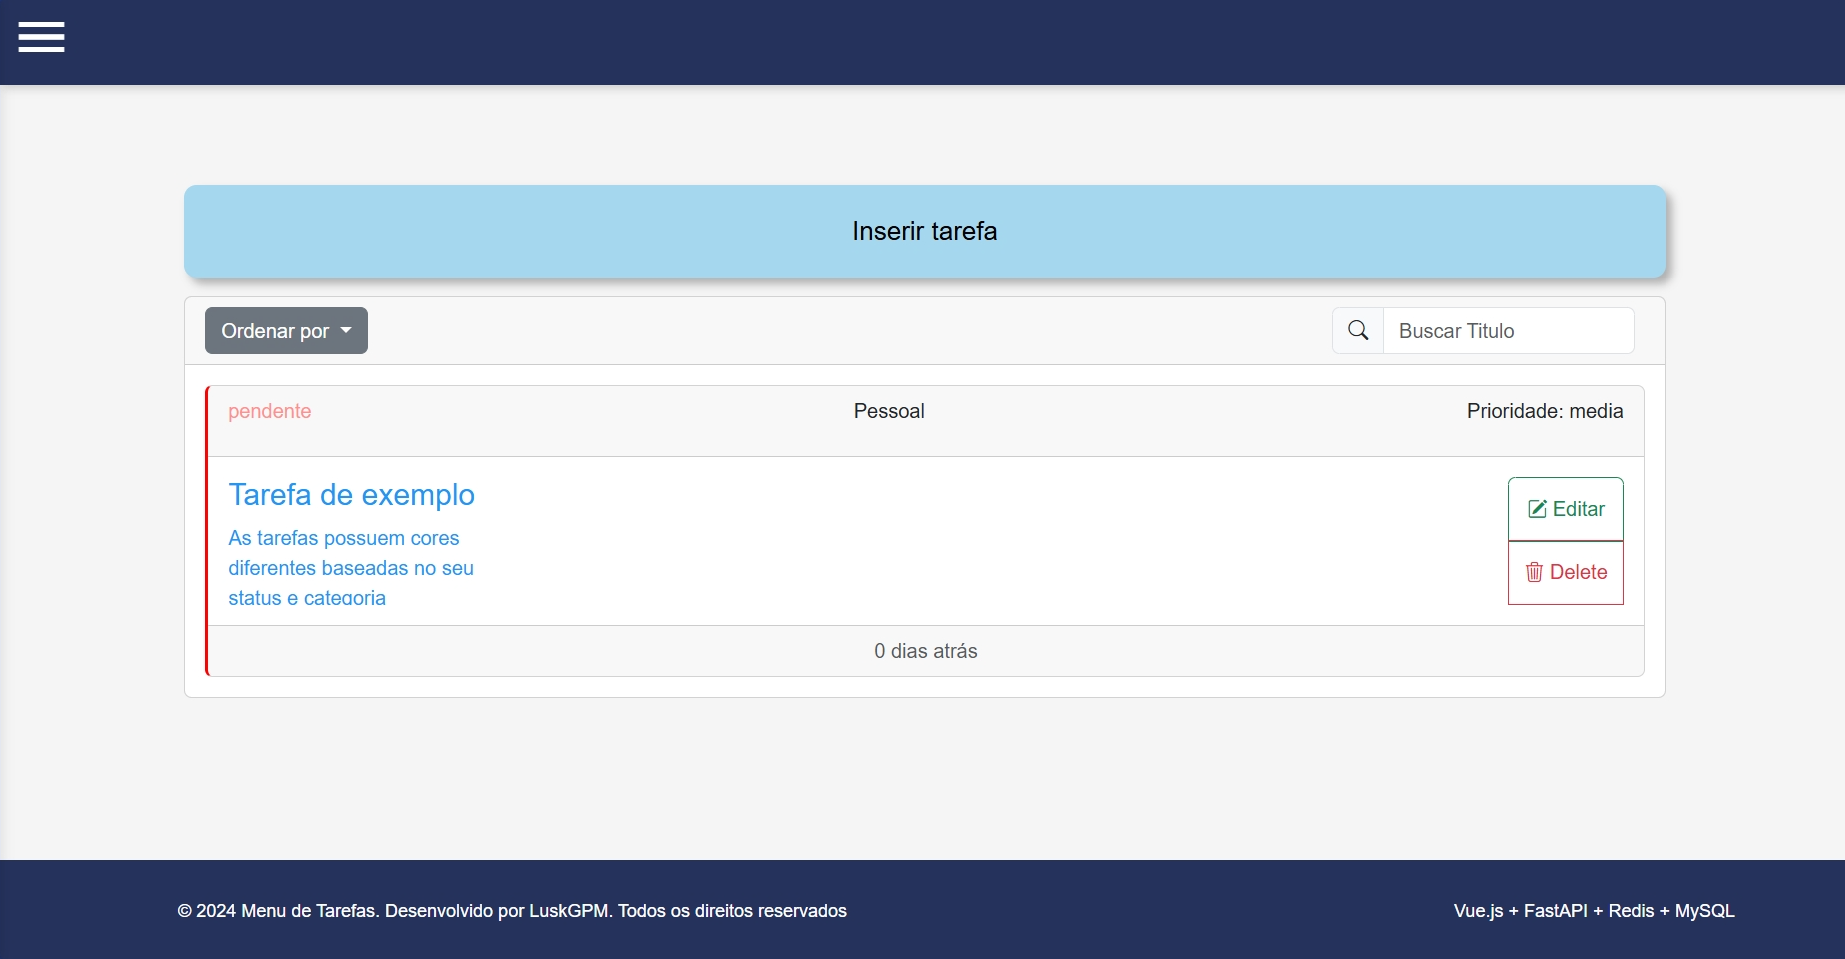
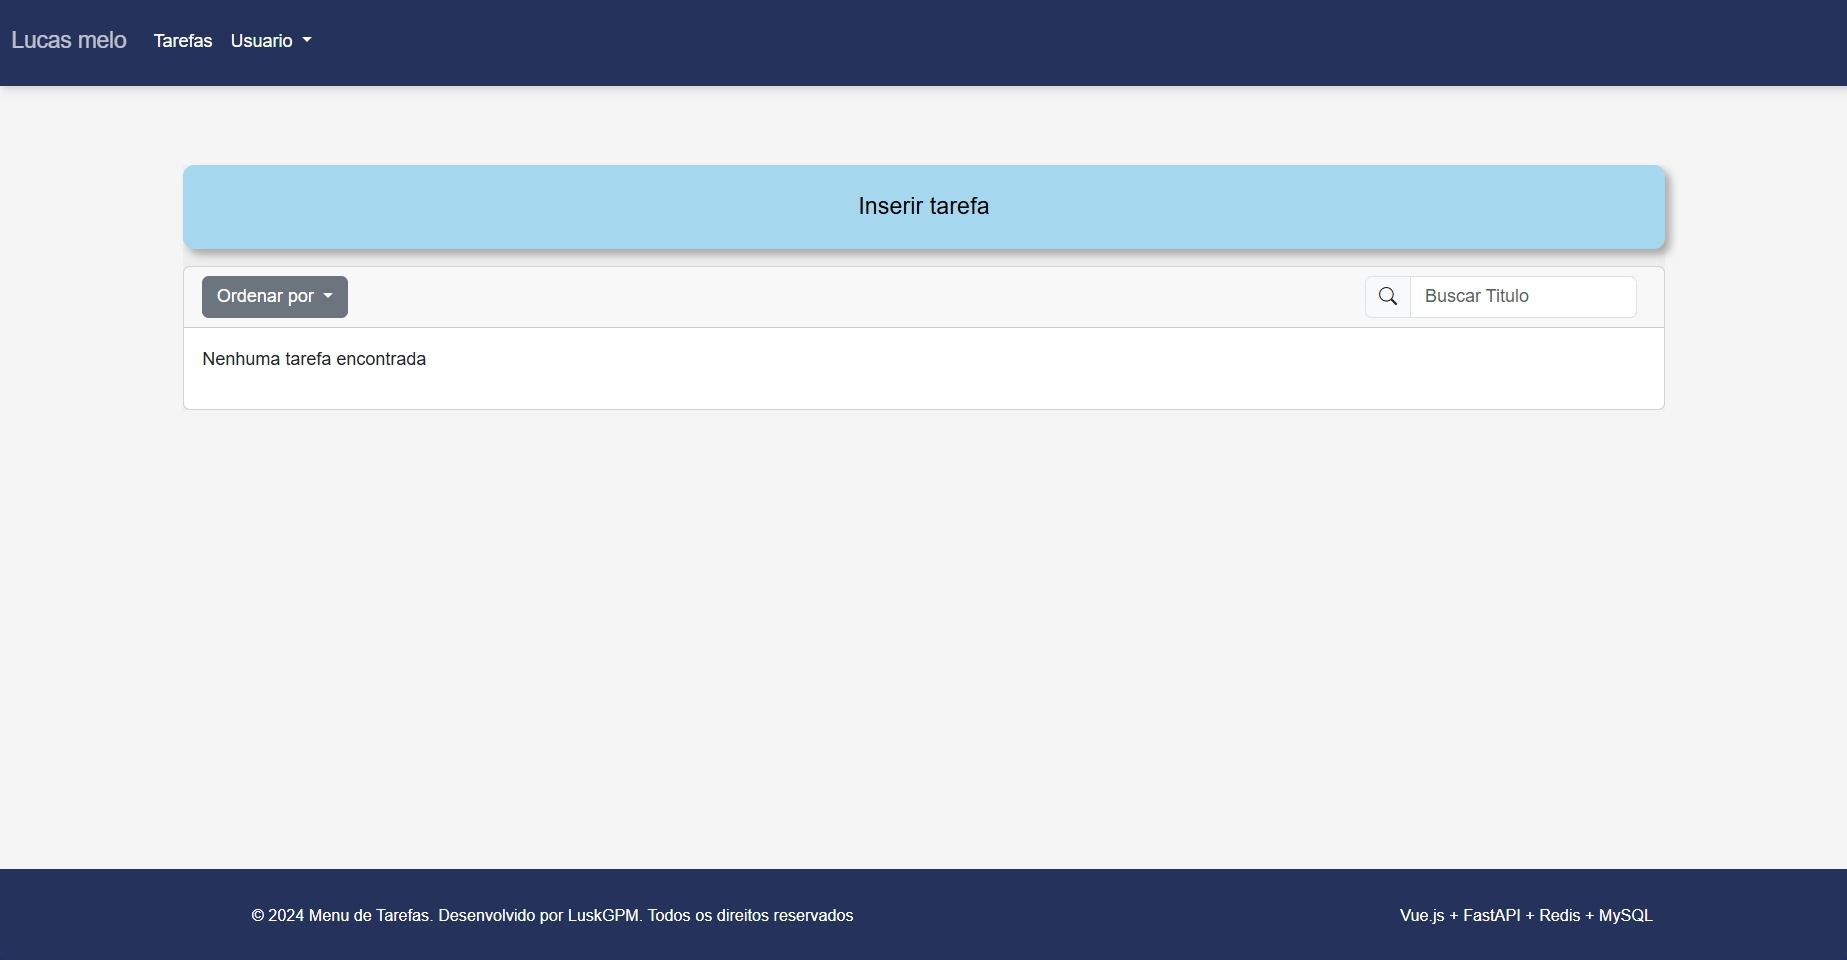
Corrigindo bug (#7)
* Corrigindo bug onde o conteúdo da pagina sobrescrevia o offcanvas

* correção de bugs (os labels vão ficar desaparecendo)

* removendo o sidebar por problemas de compatibilidade

* removendo comentarios

* dashboard

diff --git a/app/view/src/components/CompHeader.vue b/app/view/src/components/CompHeader.vue
@@ -1,28 +1,39 @@
 <template>
     <header>
-        <nav class="navbar">
-            <button class="btn" data-bs-toggle="offcanvas" data-bs-target="#sidebar">
-                <i class="bi bi-list span"></i>
-            </button>
 
-            <div class="offcanvas offcanvas-start" tabindex="-1" id="sidebar">
-                <div class="offcanvas-header">
-                    <h5 class="offcanvas-title">{{ nomeUser }}</h5>
-                    <button type="button" class="btn-close" data-bs-dismiss="offcanvas"></button>
-                </div>
-                <div class="offcanvas-body">
-                    <div class="menu-items mb-4" @click="redirect_user">
-                        <i class="bi bi-person span"></i>
-                        Perfil
-                    </div>
-                    <div class="menu-items mb-4" @click="redirect_tarefas">
-                        <i class="bi bi-list-task span"></i>
-                        Tarefas
-                    </div>
-                    <div class="menu-items" @click="logout">
-                        <i class="bi bi-box-arrow-left span exit"></i>
-                        Sair
-                    </div>
+        <nav class="navbar navbar-expand-xxl">
+            <div class="container-fluid">
+                <a class="navbar-brand" href="#" style="opacity: .7;">{{ nomeUser }}</a>
+                <div class="collapse navbar-collapse">
+                    <ul class="navbar-nav me-auto mb-2 mb-lg-0">
+                        <li class="nav-item">
+                            <button @click="redirect_tarefas" class="nav-link"
+                                :class="{ 'nav-link-active': telaAtual == 'principal' }">Tarefas</button>
+                        </li>
+                        <li class="nav-item dropdown">
+                            <a class="nav-link dropdown-toggle" href="#" role="button" data-bs-toggle="dropdown"
+                                aria-expanded="false">
+                                Usuario
+                            </a>
+                            <ul class="dropdown-menu">
+                                <li>
+                                    <button class="dropdown-item perfil" @click="redirect_user">
+                                        <i class="bi bi-person"></i>
+                                        Perfil
+                                    </button>
+                                </li>
+                                <li>
+                                    <hr class="dropdown-divider">
+                                </li>
+                                <li>
+                                    <button class="dropdown-item" @click="logout" style="color: red;">
+                                        <i class="bi bi-box-arrow-left"></i>
+                                        Sair
+                                    </button>
+                                </li>
+                            </ul>
+                        </li>
+                    </ul>
                 </div>
             </div>
         </nav>
@@ -36,12 +47,19 @@ export default {
     name: 'CompHeader',
     data() {
         return {
-            nomeUser: ''
+            nomeUser: 'Usuario',
+            telaAtual: ''
         }
     },
     created() {
         this.buscar_nome()
+        if (this.$route.path == '/tela-principal') {
+            this.telaAtual == 'principal'
+        } else {
+            this.telaAtual == 'perfil'
+        }
     },
+
     methods: {
         async logout() {
             try {
@@ -78,16 +96,28 @@ export default {
 
 .navbar {
     background-color: var(--azul-escuro);
-    padding: 20px;
     box-shadow: 3px 3px 7px rgba(69, 69, 69, 0.211);
-    position: sticky;
-    top: 0;
-}
+    height: 80px;
 
-.span {
-    font-size: 3em !important;
-    cursor: pointer;
-    color: var(--branco-painel-texto);
+    .perfil {
+        color: var(--azul-escuro);
+    }
+
+    a,
+    button,
+    li {
+        color: var(--branco-painel-texto);
+
+        &:hover,
+        &:focus {
+            color: var(--azul-claro);
+        }
+    }
+
+    li {
+        font-size: 1em;
+    }
+
 }
 
 .menu-items {

diff --git a/app/view/src/components/CompAlterarSenha.vue b/app/view/src/components/CompAlterarSenha.vue
@@ -47,7 +47,7 @@
                             </div>
                             <div class="col-12 d-flex">
                                 <button type="button" class="btn btn-success" :disabled="bloquearAlterarSenha"
-                                    @click="alterar_senha">Salvar</button>
+                                    @click="alterar_senha" style="position: static;">Salvar</button>
                                 <div v-if="loadingUpSenha" class="spinner-border col-md-6" role="status"
                                     style="align-self: center; margin-left: 10px;">
                                     <span class="visually-hidden">Loading...</span>

diff --git a/app/view/src/components/CompDadosUser.vue b/app/view/src/components/CompDadosUser.vue
@@ -16,7 +16,7 @@
                     <i class="bi bi-pencil-square"></i>
                     Editar
                 </button>
-                <button type="button" class="btn btn-primary" @click="atualizar_dados" style="margin-left: 10px;"
+                <button type="button" class="btn btn-primary" @click="atualizar_dados" style="margin-left: 10px; position: static;"
                     :disabled="disabledSalvar">
                     Salvar
                 </button>

diff --git a/app/view/src/components/CompBody.vue b/app/view/src/components/CompBody.vue
@@ -73,6 +73,7 @@ export default {
 .main-body {
   display: flex;
   flex-direction: column;
+  background-color: var(--cinza-claro) !important;
 }
 
 .button-body {
